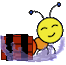
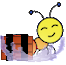
Mise à jour de toutes les images et respiration !

Changed region(s): [[0.0, 0.4615, 0.8788, 0.9538]]

diff --git a/src/core/AntGame.java b/src/core/AntGame.java
@@ -512,7 +512,7 @@ public class AntGame extends JPanel implements ActionListener, MouseListener {
 			size = (float) (1f+colony.lastAttacked*0.05);
 			g2d.drawImage(BLOOD,  0-(int)((size-1)*FRAME_SIZE.width)/2, 0-(int)((size-1)*FRAME_SIZE.height)/2, (int)(size*FRAME_SIZE.width), (int)(size*FRAME_SIZE.height), getParent());
 		}
-		if(colony.lastAttacked==1){
+		if(colony.lastAttacked==1 && !FIN){
 			addBigExplosion(0,FRAME_SIZE.height/2+50,100,10);
 		}
 		
@@ -809,8 +809,10 @@ public class AntGame extends JPanel implements ActionListener, MouseListener {
 						HASQUEEN = true;
 						ant.armor = colony.life;
 						if(ant.armor<=0){
-							addExplosion(ant.getPlace());
-							addBigExplosion(FRAME_SIZE.width/2,FRAME_SIZE.height/2,FRAME_SIZE.width/3,50);
+							if(!FIN){
+								addExplosion(ant.getPlace());
+								addBigExplosion(FRAME_SIZE.width/2,FRAME_SIZE.height/2,FRAME_SIZE.width/3,50);
+							}
 						}
 					}
 					
@@ -1482,13 +1484,15 @@ public class AntGame extends JPanel implements ActionListener, MouseListener {
 				int total_life_start = 0;
 				Ant ant = place.getAnt();
 				if (ant != null) { // draw the ant if we have one
+					Image img;
 					if(ant.buff){
-						Image img = ANT_IMAGES.get(ant.getClass().getName()+"buffed");
-						g2d.drawImage(img, rect.x + PLACE_PADDING.width, rect.y + PLACE_PADDING.height, null);
+						img = ANT_IMAGES.get(ant.getClass().getName()+"buffed");
 					}else{
-						Image img = ANT_IMAGES.get(ant.getClass().getName());
-						g2d.drawImage(img, rect.x + PLACE_PADDING.width, rect.y + PLACE_PADDING.height, null);
+						img = ANT_IMAGES.get(ant.getClass().getName());
 					}
+					float respiration = (float) (1+0.05*Math.cos((float)(counter+ant.randomDecalage)*7f/FPS));
+					g2d.drawImage(img, rect.x + PLACE_PADDING.width, rect.y + PLACE_PADDING.height+(int)((1-respiration)*img.getHeight(getParent())) - (int)(respiration*10) + 10, img.getWidth(getParent()), (int)(respiration*img.getHeight(getParent())), null);
+					
 					total_life+=ant.armor;
 					total_life_start+=ant.initArmor;
 					

diff --git a/src/core/Bee.java b/src/core/Bee.java
@@ -8,7 +8,6 @@ package core;
 public class Bee extends Insect {
 
 	private static final int DAMAGE = 1;
-	int randomDecalage = 0;
 	int colonyDegat = 1;
 	int turns = 0;
 	int level = 0;
@@ -24,7 +23,6 @@ public class Bee extends Insect {
 	 */
 	public Bee (int armor) {
 		super(armor);
-		randomDecalage = (int)(10-Math.random()*20);
 		waterSafe = true ;
 		
 		this.level = armor/5;

diff --git a/src/core/Insect.java b/src/core/Insect.java
@@ -18,6 +18,8 @@ public abstract class Insect {
 	public String description = "This is an insect, obvious.";
 	public boolean invisible = false;
 	public int damage = 1;
+	int randomDecalage = (int)(10-Math.random()*20);
+
 	/**
 	 * Creates a new Insect with the given armor in the given location
 	 *
